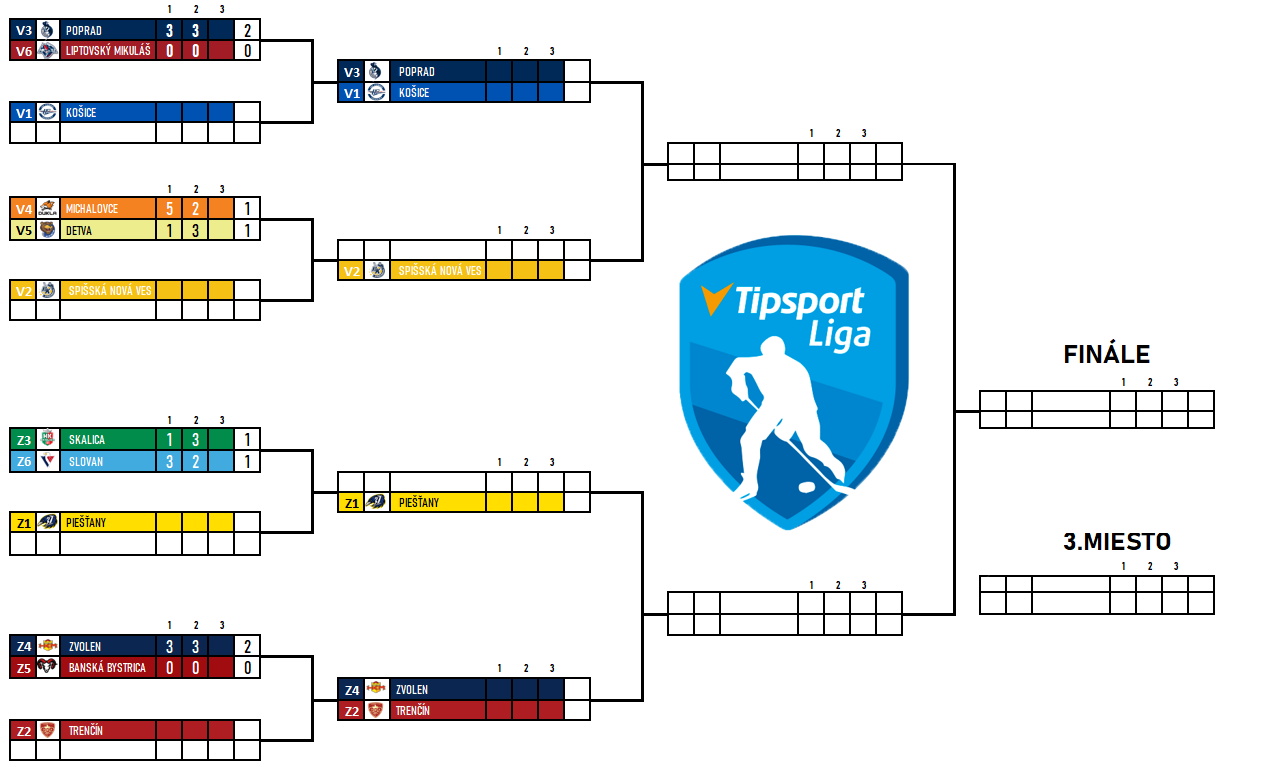
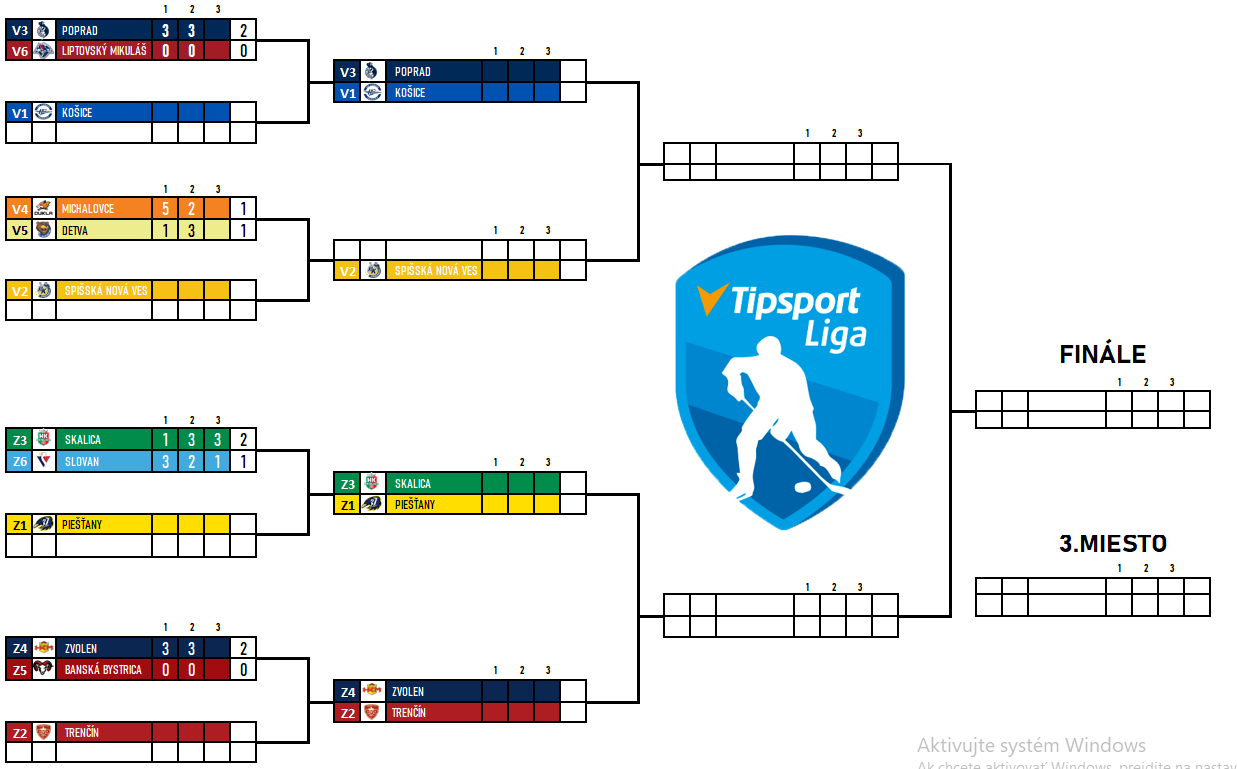
ss

diff --git a/play-off-rozpis.html b/play-off-rozpis.html
@@ -320,7 +320,7 @@
 
      
       <tr>
-        <td class="datum">1.zápas 11.7.2020</td>
+        <td class="datum">1.zápas 12.7.2020</td>
         <td class="logo"><img src="images/snv.png" height="19"></td>
         <td class="club-name"><a href="https://www.hockeyarena.net/sk/index.php?p=public_team_info_basic.php&team_id=25632" style="text-decoration-style: none; color: black;">Spišská</a></td>
         <td class="match"><b>:</b></td>
@@ -328,7 +328,7 @@
         <td class="club-name"></td>
       </tr>
        <tr>
-        <td class="datum">2.zápas 12.7.2020</td>
+        <td class="datum">2.zápas 15.7.2020</td>
         <td class="logo"></td>
         <td class="club-name"></td>
         <td class="match"><b>:</b></td>
@@ -336,7 +336,7 @@
         <td class="club-name"><a href="https://www.hockeyarena.net/sk/index.php?p=public_team_info_basic.php&team_id=25632" style="text-decoration-style: none; color: black;">Spišská</a></td>
       </tr>
       <tr>
-        <td class="datum">3.zápas 15.7.2020</td>
+        <td class="datum">3.zápas 18.7.2020</td>
         <td class="logo"></td>
         <td class="club-name"></td>
         <td class="match"><b></b></td>
@@ -360,13 +360,13 @@
         <td class="logo"><img src="images/piestany.png" height="19"></td>
         <td class="club-name"><a href="https://www.hockeyarena.net/sk/index.php?p=public_team_info_basic.php&team_id=2589" style="text-decoration-style: none; color: black;">Piešťany</a></td>
         <td class="match"><b>:</b></td>
-        <td class="logo"></td>
-        <td class="club-name"> </td>
+        <td class="logo"><img src="images/Skalica.png" height="19"></td>
+        <td class="club-name"><a href="https://www.hockeyarena.net/sk/index.php?p=public_team_info_basic.php&team_id=2991" style="text-decoration-style: none; color: black;">Skalica</a></td>
       </tr>
        <tr>
         <td class="datum">2.zápas 12.7.2020</td>
-        <td class="logo"></td>
-        <td class="club-name"></td>
+        <td class="logo"><img src="images/Skalica.png" height="19"></td>
+        <td class="club-name"><a href="https://www.hockeyarena.net/sk/index.php?p=public_team_info_basic.php&team_id=2991" style="text-decoration-style: none; color: black;">Skalica</a></td>
         <td class="match"><b>:</b></td>
         <td class="logo"><img src="images/piestany.png" height="19"></td>
         <td class="club-name"><a href="https://www.hockeyarena.net/sk/index.php?p=public_team_info_basic.php&team_id=2589" style="text-decoration-style: none; color: black;">Piešťany</a></td>
@@ -539,7 +539,7 @@
         <td class="naplanovane" class="datum">3.zápas 8.7.2020</td>
         <td class="logo"><img src="images/Skalica.png" height="19"></td>
         <td class="club-name"><a href="https://www.hockeyarena.net/sk/index.php?p=public_team_info_basic.php&team_id=2991" style="text-decoration-style: none; color: black;">Skalica</a></td>
-        <td class="match"><b></b></td>
+        <td class="match"><b>3:1</b></td>
        <td class="logo"><img src="images/slovan.png" height="19"></td>
         <td class="club-name"><a href="https://www.hockeyarena.net/sk/index.php?p=public_team_info_basic.php&team_id=37887" style="text-decoration-style: none; color: black;">Slovan Bratislava</a></td>
       </tr>
